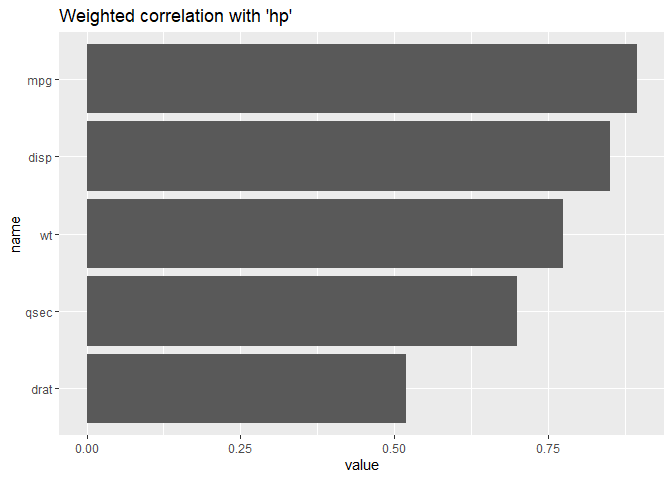
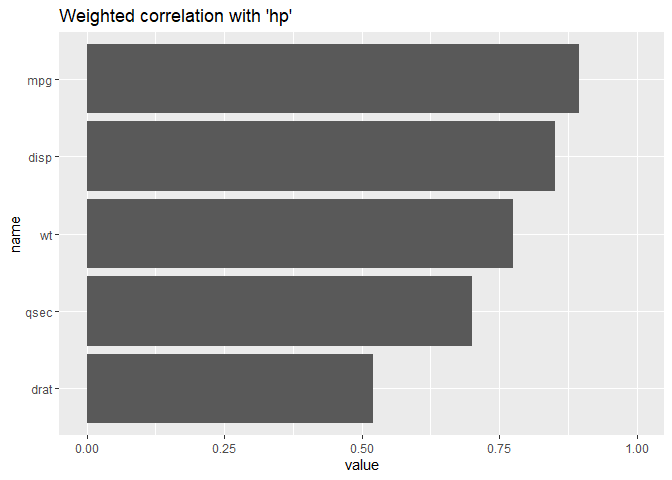
minor changes to readme

diff --git a/README.md b/README.md
@@ -9,11 +9,10 @@
 experimental](https://img.shields.io/badge/lifecycle-experimental-orange.svg)](https://lifecycle.r-lib.org/articles/stages.html#experimental)
 <!-- badges: end -->
 
-piececor is a toy package for calculating univariate piecewise
-correlations of a set of {*variables of interest*} against a {*target*}
-variable. A more mature version of this package may be useful for
-exploratory data analysis or in “simple filtering” of features for
-predictive modeling.
+piececor is a toy package for calculating piecewise correlations of a
+set of {*variables of interest*} with a {*target*} variable. This may be
+useful for exploratory data analysis or in “simple filtering” of
+features for predictive modeling.
 
 This package is a *rough* mock-up of initial ideas discussed between
 Bryan Shalloway, Dr. Shaina Race, and Ricky Tharrington.
@@ -174,9 +173,9 @@ weighted_cors
 
 weighted_cors %>% 
   mutate(name = forcats::fct_reorder(name, value)) %>% 
-  ggplot(aes(x = name, y = value))+
+  ggplot(aes(y = name, x = value))+
   geom_col()+
-  coord_flip()+
+  xlim(c(0, 1))+
   labs(title = "Weighted correlation with 'hp'")
 ```
 
